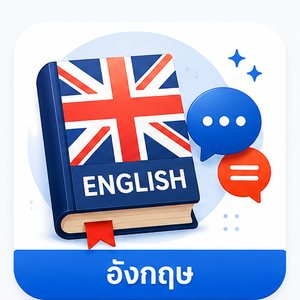
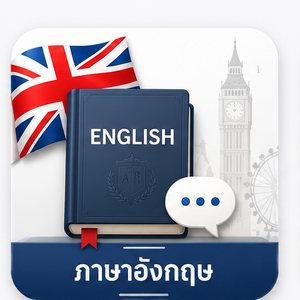
เปลี่ยนไอคอนวิชาเป็นชุดใหม่ (sw v46)

diff --git a/sw.js b/sw.js
@@ -2,7 +2,7 @@
    ────────────────────────────────────────────────
    เวลาแก้ไฟล์แอปแล้วอยากให้เครื่องนักเรียนอัปเดต ให้เปลี่ยนเลข VERSION ข้างล่างนี้
    (เช่น v1 → v2) แล้วอัปโหลดใหม่ทั้งโฟลเดอร์ เท่านี้ทุกเครื่องจะเห็นของใหม่เอง */
-const VERSION = "v45";
+const VERSION = "v46";
 
 const CACHE = "nst18-" + VERSION;
 const SHELL = [
